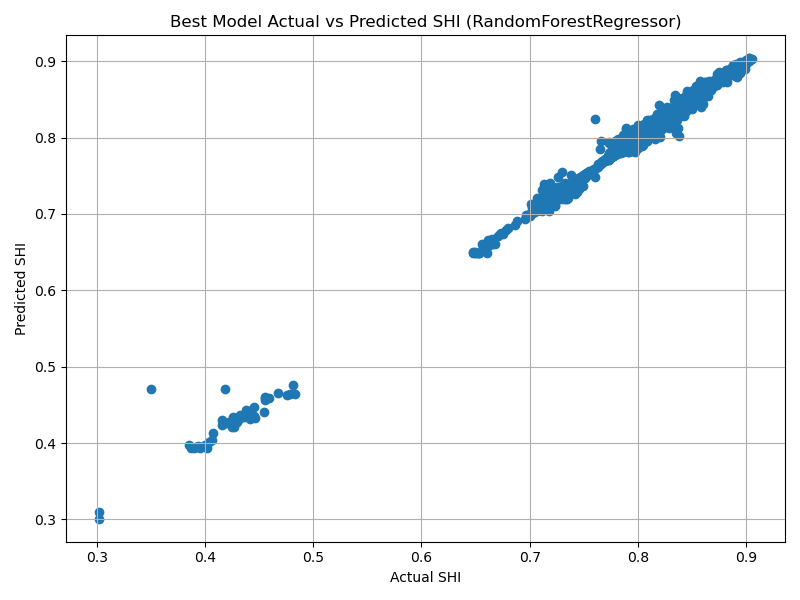
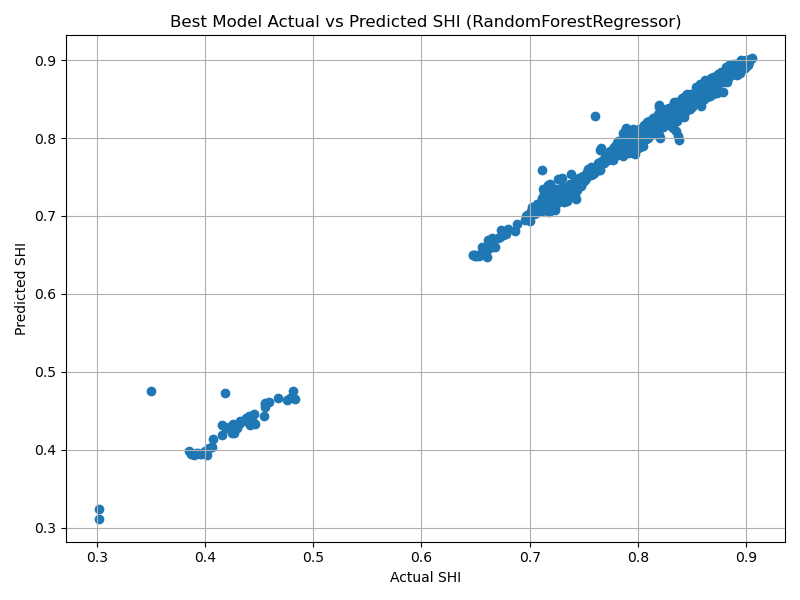
Did EDA & modified re-ran model.py & data_preprocessing.py . Detected Data Leakage & modifed the leakage columns in the pre-processing script.

diff --git a/src/eda.py b/src/eda.py
@@ -1,0 +1,222 @@
+# Bridge Structural Health Monitoring — Exploratory Data Analysis (EDA)
+# This script is similar to portfolio task 1 which helps us understand data better
+
+from pathlib import Path
+import pandas as pd
+import matplotlib.pyplot as plt
+import seaborn as sns
+
+ROOT = Path(__file__).resolve().parents[1]
+
+DATA_PATH = ROOT / "data" / "raw_dataset" / "bridge_digital_twin_dataset.csv"
+FIGURES_DIR = ROOT / "reports" / "eda_figures"
+
+TARGET = "Structural_Health_Index_SHI"
+
+
+# Task 1 - Dataset Loading & Initial Exploration
+df = pd.read_csv(DATA_PATH)
+print("Dataset loaded successfully!\n")
+
+print("Dataset Shape (rows, columns):", df.shape, "\n")
+
+print("First 5 rows of the dataset:")
+print(df.head(), "\n")
+
+print("Data types before conversion:")
+print(df.dtypes, "\n")
+
+if "Timestamp" in df.columns:
+    df["Timestamp"] = pd.to_datetime(df["Timestamp"], errors="coerce")
+    print("Data types after Timestamp conversion:")
+    print(df.dtypes, "\n")
+
+print("Statistical Summary:")
+print(df.describe(), "\n")
+
+print("Missing values in each column:")
+print(df.isnull().sum(), "\n")
+
+print("Dataset Info:")
+print(df.info())
+
+
+# Task 2 - Data Quality Assessment
+missing_count = df.isnull().sum()
+missing_percent = (missing_count / len(df)) * 100
+
+missing_table = pd.DataFrame({
+    "Missing Values": missing_count,
+    "Percentage (%)": missing_percent
+})
+
+print("\nMissing values table:")
+print(missing_table, "\n")
+
+FIGURES_DIR.mkdir(parents=True, exist_ok=True)
+
+plt.figure(figsize=(10, 5))
+sns.heatmap(df.isnull(), cbar=False, yticklabels=False)
+plt.title("Missing Values Heatmap")
+plt.tight_layout()
+plt.savefig(FIGURES_DIR / "missing_values_heatmap.png")
+plt.close()
+
+duplicate_count = df.duplicated().sum()
+print("Number of duplicate rows:", duplicate_count, "\n")
+
+if duplicate_count > 0:
+    print("Examples of duplicate rows:")
+    print(df[df.duplicated()].head(), "\n")
+else:
+    print("No duplicate rows found.\n")
+
+numerical_cols = df.select_dtypes(include=["int64", "float64"]).columns
+
+for col in numerical_cols:
+    plt.figure(figsize=(8, 4))
+    sns.boxplot(x=df[col])
+    plt.title(f"Boxplot of {col}")
+    plt.tight_layout()
+    plt.savefig(FIGURES_DIR / f"boxplot_{col}.png")
+    plt.close()
+
+
+# Task 3 - Target Variable Preparation / Analysis
+print("\nTarget Variable:", TARGET)
+print("Target variable summary:")
+print(df[TARGET].describe(), "\n")
+
+df["SHI_Class"] = pd.qcut(
+    df[TARGET],
+    q=3,
+    labels=["Low", "Medium", "High"]
+)
+
+print("SHI class distribution:")
+print(df["SHI_Class"].value_counts(), "\n")
+
+plt.figure(figsize=(7, 5))
+df["SHI_Class"].value_counts().plot(kind="bar")
+plt.title("SHI Class Distribution")
+plt.xlabel("SHI Class")
+plt.ylabel("Count")
+plt.tight_layout()
+plt.savefig(FIGURES_DIR / "shi_class_distribution.png")
+plt.close()
+
+
+# Task 4 - Univariate Analysis
+selected_features = [
+    "Strain_microstrain",
+    "Deflection_mm",
+    "Vibration_ms2",
+    "Tilt_deg",
+    "Temperature_C",
+    "Humidity_percent",
+    "Wind_Speed_ms",
+    "Vehicle_Load_tons",
+    TARGET
+]
+
+selected_features = [col for col in selected_features if col in df.columns]
+
+print("Selected predictor variables for univariate analysis:")
+print(selected_features, "\n")
+
+for col in selected_features:
+    plt.figure(figsize=(8, 5))
+    plt.hist(df[col].dropna(), bins=30)
+    plt.title(f"Distribution of {col}")
+    plt.xlabel(col)
+    plt.ylabel("Frequency")
+    plt.tight_layout()
+    plt.savefig(FIGURES_DIR / f"histogram_{col}.png")
+    plt.close()
+
+print("Summary statistics for selected predictors:")
+print(df[selected_features].describe(), "\n")
+
+
+# Task 5 - Multivariate Analysis
+numerical_df = df.select_dtypes(include=["int64", "float64"])
+
+plt.figure(figsize=(14, 10))
+sns.heatmap(numerical_df.corr(), cmap="coolwarm", fmt=".2f")
+plt.title("Correlation Heatmap")
+plt.tight_layout()
+plt.savefig(FIGURES_DIR / "correlation_heatmap.png")
+plt.close()
+
+correlation_with_target = numerical_df.corr()[TARGET].sort_values(ascending=False)
+
+print("Correlation with target:")
+print(correlation_with_target, "\n")
+
+exclude = [
+    TARGET,
+    "SHI_Predicted_24h_Ahead",
+    "SHI_Predicted_7d_Ahead",
+    "SHI_Predicted_30d_Ahead",
+    "Bridge_Mood_Meter"
+]
+
+exclude = [col for col in exclude if col in correlation_with_target.index]
+
+top_5 = correlation_with_target.drop(exclude, errors="ignore").head(5)
+
+print("Top 5 features correlated with SHI:")
+print(top_5, "\n")
+
+corr_matrix = numerical_df.corr()
+high_corr_pairs = []
+
+for i in range(len(corr_matrix.columns)):
+    for j in range(i):
+        corr_value = corr_matrix.iloc[i, j]
+
+        if abs(corr_value) > 0.8:
+            high_corr_pairs.append((
+                corr_matrix.columns[i],
+                corr_matrix.columns[j],
+                corr_value
+            ))
+
+print("Highly correlated feature pairs (|corr| > 0.8):")
+for pair in high_corr_pairs:
+    print(pair)
+
+key_features = list(top_5.index) + [TARGET]
+key_features = [col for col in key_features if col in df.columns]
+
+if len(key_features) > 1:
+    sample_df = df[key_features].dropna().sample(
+        min(500, len(df)),
+        random_state=42
+    )
+
+    sns.pairplot(sample_df)
+    plt.savefig(FIGURES_DIR / "pairplot_key_features.png")
+    plt.close()
+
+print("\nEDA complete.")
+print(f"Figures saved in: {FIGURES_DIR}")
+
+'''
+# Final EDA insight:
+# The main indicators affecting bridge health are structural/load-related variables.
+# SHI has strong negative relationships with Strain_microstrain (-0.93), Tilt_deg (-0.85),
+# Deflection_mm (-0.77), Cable_Member_Tension_kN (-0.76), Traffic_Volume_vph (-0.75),
+# Vehicle_Load_tons (-0.75), and Probability_of_Failure_PoF (-0.75). This makes engineering
+# sense because higher strain, tilt, deflection, traffic load, and failure risk usually indicate
+# lower bridge health.
+
+# The modelling approach in model.py is appropriate because SHI is a continuous value, so
+# regression is the correct task. Random Forest is suitable because the dataset has nonlinear
+# sensor relationships and highly correlated features. The MLP neural network is also useful as
+# a lightweight comparison model after scaling. Comparing both models and selecting the one
+# with the lowest RMSE is a valid approach for reliable model selection.
+#
+# Leakage columns such as future SHI predictions and output-derived fields will be removed
+# before training because they would make the model look unrealistically accurate.
+'''

diff --git a/src/data_preprocessing.py b/src/data_preprocessing.py
@@ -46,12 +46,18 @@ COLS_DROP_MISSING = [
 ]
 
 COLS_DROP_LEAKAGE = [
-    "Bridge_Mood_Meter",
-    "Energy_Harvesting_Potential_W",
-    "Carbon_Footprint_tCO2e_incremental",
-    "Estimated_Repair_Cost_USD_incremental",
+    # Future SHI / target-derived columns
+    "SHI_Predicted_24h_Ahead",
     "SHI_Predicted_7d_Ahead",
     "SHI_Predicted_30d_Ahead",
+    "Bridge_Mood_Meter",
+    # Output / decision columns that would leak target information
+    "Probability_of_Failure_PoF",
+    "Maintenance_Alert",
+    "Estimated_Repair_Cost_USD_incremental",
+    "Carbon_Footprint_tCO2e_incremental",
+    "Energy_Harvesting_Potential_W",
+    # Highly derived / redundant simulated outputs
     "Simulated_Water_Flow_m3s",
     "Axle_Counts_pmin",
     "Air_Quality_Index_AQI",